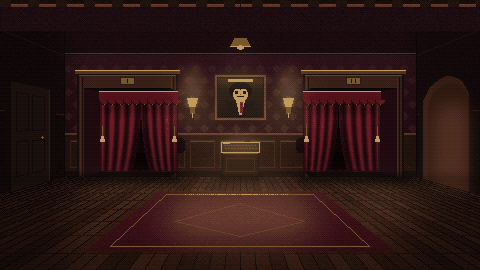
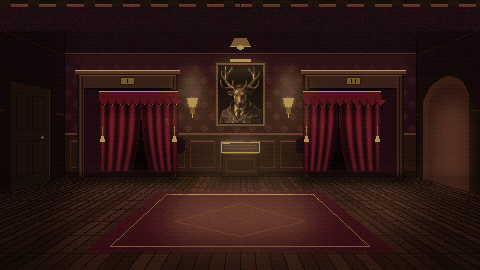
Repaint the Club hall portrait from the stag reference picture (#93)
The hall's portrait is now reduced from tools/art/src/club_painting.png:
the stag's head, antlers and collar/tie, in a portrait-shaped frame.

Copilot-Session: fdc191e8-8dc5-4c52-a147-087c23bec939

Changed region(s): [[0.4375, 0.2074, 0.5625, 0.4741]]

diff --git a/tools/art/club.py b/tools/art/club.py
@@ -1,11 +1,15 @@
 """A secretive private club: curtained privees, lounge, and a shadowy stage room."""
 import math
+import os
 import random
 from PIL import Image, ImageDraw
-from .common import (W, H, TOP, FULL_H, tall, hx, mix, mul, clamp, vgrad, noise, light, shadow, vignette, pixelize,
-                     save, floor_boards)
+from .common import (W, H, TOP, FULL_H, ROOT, tall, hx, mix, mul, clamp, vgrad, noise, light, shadow, vignette,
+                     pixelize, save, floor_boards)
 
 FLOOR = 146
+# the hall's portrait, reduced from an original picture: antler tips down to the collar and tie
+PAINTING_SRC = os.path.join(ROOT, "tools", "art", "src", "club_painting.png")
+PAINTING_CROP = (125, 0, 705, 774)
 WALL_TOP = hx("241117")
 WALL_MID = hx("34161d")
 WALL_LOW = hx("24100f")
@@ -309,26 +313,29 @@ def cigar_stand(img, x0, x1, y0):
     shadow(img, "rect", [x0 - 3, FLOOR - 1, x1 + 3, FLOOR + 4], 0.5, 2)
 
 
+def painting_source():
+    """The stag-headed member from the original picture: antlers, head and the collar and tie, no robe."""
+    with Image.open(PAINTING_SRC) as src:
+        return src.convert("RGB").crop(PAINTING_CROP)
+
+
 def painting(img, x0, y0, x1, y1):
     d = ImageDraw.Draw(img)
     d.rectangle([x0, y0, x1, y1], fill=hx("5a4220"), outline=hx("2a1a0a"))
-    d.rectangle([x0 + 3, y0 + 3, x1 - 3, y1 - 3], fill=hx("1c1410"))
-    vgrad(img, (x0 + 4, y0 + 4, x1 - 4, y1 - 4), hx("2a2018"), hx("120c0a"))
+    d.line([(x0 + 1, y0 + 1), (x1 - 1, y0 + 1)], fill=mul(hx("5a4220"), 1.4))
+    d.rectangle([x0 + 3, y0 + 3, x1 - 3, y1 - 3], fill=hx("0c0908"))
+    box = (x0 + 4, y0 + 4, x1 - 4, y1 - 4)
+    bw, bh = box[2] - box[0] + 1, box[3] - box[1] + 1
+    src = painting_source()
+    scale = min(bw / src.width, bh / src.height)
+    w, h = max(1, round(src.width * scale)), max(1, round(src.height * scale))
+    # the original is lit cold; warm and dim it so it hangs in the hall's lamplight
+    face = Image.blend(src.resize((w, h), Image.BOX), Image.new("RGB", (w, h), hx("3a2414")), 0.18)
+    img.paste(face, (box[0] + (bw - w) // 2, box[1] + (bh - h) // 2))
     cx = (x0 + x1) // 2
-    top = y0 + 8
-    # Suit and shirt stay far from the skin ramp so the bust does not collapse into one blob.
-    d.rectangle([cx - 14, top + 20, cx + 14, y1 - 5], fill=hx("12100e"))
-    d.polygon([(cx - 4, top + 18), (cx + 4, top + 18), (cx + 1, y1 - 6), (cx - 1, y1 - 6)], fill=hx("f4f0e4"))
-    d.rectangle([cx, top + 19, cx + 2, y1 - 8], fill=hx("8a1a22"))
-    d.ellipse([cx - 11, top, cx + 11, top + 16], fill=hx("100c0a"))
-    d.ellipse([cx - 7, top + 5, cx + 7, top + 19], fill=hx("e0a878"))
-    d.pieslice([cx - 11, top, cx + 11, top + 14], 200, 340, fill=hx("100c0a"))
-    d.rectangle([cx - 5, top + 9, cx - 3, top + 11], fill=hx("100c0a"))
-    d.rectangle([cx + 3, top + 9, cx + 5, top + 11], fill=hx("100c0a"))
-    d.line([(cx - 3, top + 14), (cx + 3, top + 14)], fill=hx("100c0a"))
-    d.point((cx, top + 12), fill=hx("a06848"))
-    d.rectangle([cx - 12, y0 + 5, cx + 12, y0 + 7], fill=BRASS)
-    light(img, "rect", [x0, y0, x1, y0 + 10], LAMPLIGHT, 0.12, 4)
+    d.rectangle([cx - 10, y0 - 3, cx + 10, y0 - 1], fill=BRASS)
+    d.line([(cx - 10, y0 - 3), (cx + 10, y0 - 3)], fill=hx("e8c880"))
+    light(img, "rect", [x0, y0, x1, y0 + 14], LAMPLIGHT, 0.12, 4)
 
 
 def hall_scene():
@@ -340,7 +347,7 @@ def hall_scene():
     lounge_arch(img)
     privee(img, 84, 170, 58, 1, 131)
     privee(img, 310, 396, 58, 2, 137)
-    painting(img, 214, 44, 266, 90)
+    painting(img, 215, 32, 265, 96)
     cigar_stand(img, 222, 258, 112)
     d = ImageDraw.Draw(img)
     rug = [hp(-62, 0, 1.3), hp(62, 0, 1.3), hp(62, 0, 2.5), hp(-62, 0, 2.5)]

diff --git a/tests/art/test_location_art.py b/tests/art/test_location_art.py
@@ -165,13 +165,17 @@ class LocationRenderingTests(unittest.TestCase):
                 self.assert_images_equal(combined, common.pixelize(paint(**combined_flags), pal))
 
 
-    def test_club_portrait_reads_as_a_face(self):
-        image = Image.new("RGB", (80, 60))
-        club.painting(image, 4, 4, 60, 52)
-        face = image.crop((22, 14, 42, 32))
-        colors = {tuple(color) for _, color in face.getcolors(80)}
-        self.assertIn(common.hx("e0a878"), colors)
-        self.assertIn(common.hx("100c0a"), colors)
+    def test_club_portrait_is_the_stag_from_the_source_picture(self):
+        image = Image.new("RGB", (60, 72))
+        club.painting(image, 5, 4, 55, 68)
+        canvas = image.crop((9, 8, 52, 65))
+        self.assertGreater(len(canvas.getcolors(canvas.width * canvas.height)), 100, "a picture, not flat shapes")
+        self.assertNotIn(common.hx("e0a878"), {colour for _, colour in canvas.getcolors(4096)}, "no flat skin oval")
+        # the antlers' bone and the stag's brown head are the brightest, warmest part of the canvas
+        top = ImageStat.Stat(canvas.crop((0, 0, canvas.width, canvas.height // 2))).mean
+        self.assertGreater(top[0], top[2])
+        source = club.painting_source()
+        self.assertAlmostEqual(source.width / source.height, canvas.width / canvas.height, delta=0.03)
 
     def test_bedroom_puts_daniel_in_front_and_hides_his_wife(self):
         self.assertEqual(len(act2_rooms._bed_figures(1.2)), 2, "only Daniel is painted; she's under the quilt")

diff --git a/README.md b/README.md
@@ -409,7 +409,8 @@ both mansion bed states.
 py -3.14 -m pip install --upgrade pillow numpy
 py -3.14 tools\gen_art.py            # everything
 py -3.14 tools\gen_art.py lobby      # a single step: sprites, items, office, lobby, eleanor_room, speakeasy, alley, convent, convent_road, chicago_map, ui
-py -3.14 tools\gen_art.py club harrington  # club rooms and Harrington's building/office, including puzzle overlays
+py -3.14 tools\gen_art.py club harrington  # club rooms and Harrington's building/office, including puzzle overlays; the hall's
+                                           # stag portrait is reduced from tools\art\src\club_painting.png (head, antlers, collar)
 py -3.14 tools\gen_art.py expansion_act1 expansion_act2 expansion_act3  # the five collect-and-combine locations, overlays and item icons
 py -3.14 tools\gen_art.py closeup    # Eleanor's stage close-up and Rose's doorstep close-up, reduced to VGA pixels from the original pictures in tools\art\src\ (stage_closeup.png, rose_closeup.png); Eleanor's clothed variant paints her dress on;
                                      also Micah's close-up on the cathedral steps, from tools\art\src\beaten_closeup.png;
